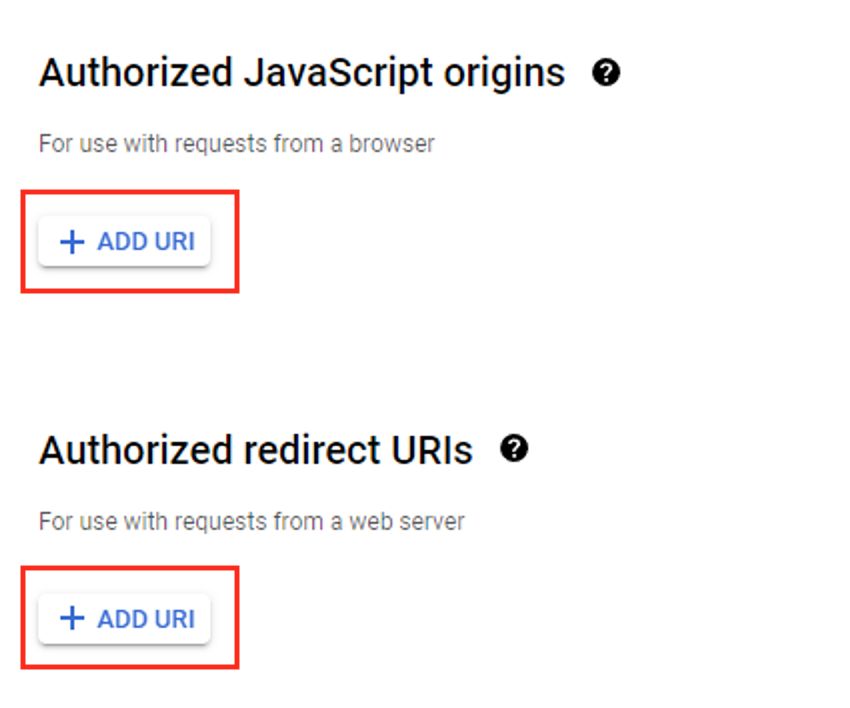
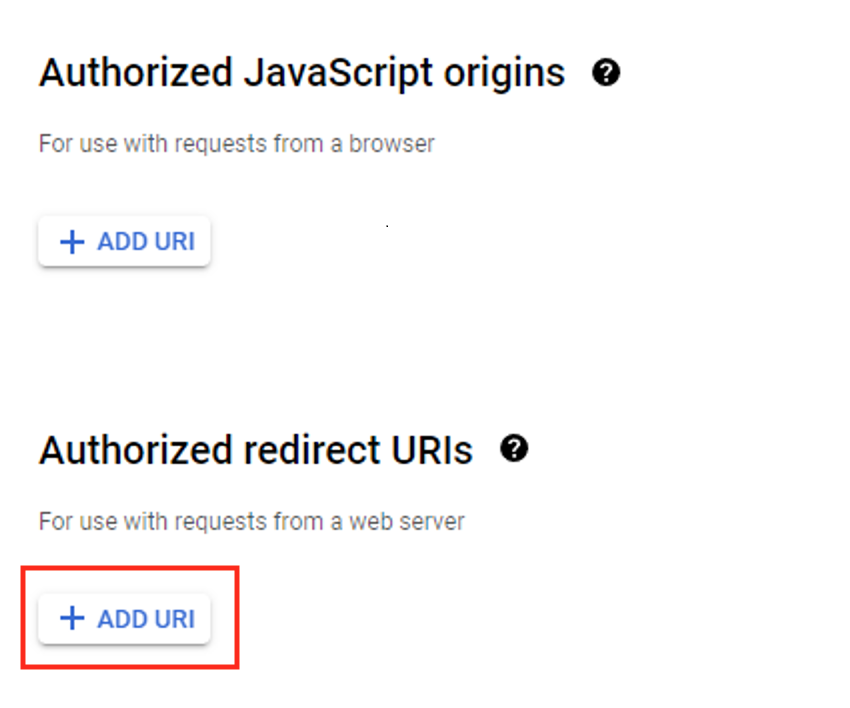
Improve documentation

diff --git a/docs/deploy-using-arm-template.md b/docs/deploy-using-arm-template.md
@@ -22,8 +22,8 @@ You must provide the following parameters when deploying the ARM Template.
 |---|---|---
 |**basename**|**A name that is used to name provisioned resources.** *Should be alphanumeric and less than 16 characters. Must be globally unique.*|true
 |**location**|**The location where the resources(s) are deployed.** *Choose the Azure region that's right for you and your customers. Not every resource is available in every region. The default value will be the location defined for the resource group.*|false
-|**google_client_id**|**The Google OAuth2 web application client id.**|true
-|**google_client_secret**|**The Google OAuth2 web application secret.**|true
+|**google_client_id**|**The Google OAuth2 web application client id.** *[Where to find your Google Client Id and Secret](./finding-google-client-id-and-secret.md)*|true
+|**google_client_secret**|**The Google OAuth2 web application secret.** [Where to find your Google Client Id and Secret](./finding-google-client-id-and-secret.md)*|true
 |**repository_url**|**The repository where the fit-on-fhir source code resides.** *The default value is 'https://github.com/Microsoft/fit-on-fhir'*|false
 |**repository_branch**|**The source code branch to be deployed.** *The default value is 'main'*|false
 |**google_dataset_request_limit**|**The maximum Google Fit data points returned per dataset request.** *The default value is 1000*|false
@@ -66,3 +66,6 @@ az deployment group create \
 ```
 
 NOTE: To deploy as an ARM template instead of a Bicep template, repeat the command above replacing the following argument `--template-file azuredeploy.json`.
+
+Once the deployment has completed, if the Authorized Redirect URI has not been set be sure to configure it. Instructions can be found [here](./setting-redirect-uris.md).
+

diff --git a/docs/google-setup.md b/docs/google-setup.md
@@ -67,13 +67,10 @@ next step below.
 
  While these are the only data required, it would be useful to also provide a list of test users that are allowed access to your app. You can also update the list of test users later in the **OAuth consent screen** in the left side pane.
 
-## Add javascript origin URLs
+## Add Authorized redirect URLs
 
-Lastly, you need configure the base URI and callback URI for your project.  Click the button labeled **Add URI** under *Authorized JavaScript origins*
-to add the base URI.
-
-Click the button labeled **Add URI** under *Authorized redirect URIs* to add the callback URI.
+Lastly, you need configure callback URI for your project.  Click the button labeled **Add URI** under *Authorized redirect URIs* to add the callback URI. The format of the URI will be **[https://authorize-{YOUR_BASE_NAME}.azurewebsites.net/api/googlefit/callback]()**.
 
 ![Add Authorized URIs](../media/authorized-uris.png)
 
-**Note -** You will not be able to add these values until after you have deployed the solution. The *Authorized JavaScript origins* and *Authorized redirect URIs* are based off of the Authorization Function app URL and won't be available until after it is deployed.
+**Note -** You may want to add this value after you have deployed the solution to Azure. *Authorized redirect URIs* are based off of the Authorization Function app URL and won't be available until after it is deployed.

diff --git a/docs/setting-redirect-uris.md b/docs/setting-redirect-uris.md
@@ -1,0 +1,19 @@
+# Setting Authorized JavaScript origins and Authorized redirect URIs
+
+In order for the **Authorization Function** to function properly, a callback URI must be configured in your Google OAuth Credential.
+
+Navigate to the [Google Cloud Platform console](https://console.cloud.google.com/), and open the Navigation Menu.
+
+![Navigation Menu](../media/navigation-menu.png)
+
+Navigate to *Credentials* from under the *APIs & Services* menu on the left side pane.
+
+![Credentials Menu](../media/credentials-menu.png)
+
+Find your credential in the list of OAuth 2.0 Client IDs and click the edit button.
+
+![OAuth Credential Edit](../media/oauth-edit.png)
+
+Click the button labeled **Add URI** under *Authorized redirect URIs* to add the callback URI. The format of the URI will be **[https://authorize-{YOUR_BASE_NAME}.azurewebsites.net/api/googlefit/callback]()**.
+
+![Add Authorized URIs](../media/authorized-uris.png)

diff --git a/docs/using-fit-on-fhir.md b/docs/using-fit-on-fhir.md
@@ -26,7 +26,7 @@ In the overview section of the Function copy the base URL. Append the base URL w
 ## Configuring Access to your Authorization Function
 
 Access to the Authorization function can be configured to either allow for anonymous login, or login with authentication.  This setting is configured by setting
-*AuthenticationConfiguration__IsAnonymousLoginEnabled* to true for anonymous logins, and false for login with authentication.  This can be found in can be found in the Settings for the Authorization fuction
+*AuthenticationConfiguration__IsAnonymousLoginEnabled* to true for anonymous logins, and false for login with authentication.  This can be found in can be found in the Settings for the Authorization function
 ![Anonymous Login Setting](../media/anonymous-login-setting.png)
 
 It can also be set here in the azuredeploy.parameters.json file, by changing the defaultValue between false and true

diff --git a/docs/finding-google-client-id-and-secret.md b/docs/finding-google-client-id-and-secret.md
@@ -1,0 +1,19 @@
+# Locating your Google Client Id and Secret
+
+After creating your project and OAuth credentials, you may need to find your Client Id and Secret to deploy the solution to Azure. These values are required so the Azure Functions can make authenticated requests to the Google APIs.
+
+Navigate to the [Google Cloud Platform console](https://console.cloud.google.com/), and open the Navigation Menu.
+
+![Navigation Menu](../media/navigation-menu.png)
+
+Navigate to *Credentials* from under the *APIs & Services* menu on the left side pane.
+
+![Credentials Menu](../media/credentials-menu.png)
+
+Find your credential in the list of OAuth 2.0 Client IDs and click the edit button.
+
+![OAuth Credential Edit](../media/oauth-edit.png)
+
+Your Client Id and secret will be listed on the right side of the screen.
+
+![Client Id and Secret](../media/client-id-and-secret.png)

diff --git a/deploy/README.md b/deploy/README.md
@@ -33,7 +33,7 @@ Note: More detail on the following functions can be found in the /src directory 
 * Storage Account: Contains the following sub-resources that enable data sync with FHIR
     * Blob Service: (TODO: What is this used for?)
     * Queue Service: Contains the Sync Event queue
-        * Queue: Receives messages from the Sync Event Generator function.  Each messsage contains a userId for data that needs to be retrieved from Google Fit and pushed to FHIR
+        * Queue: Receives messages from the Sync Event Generator function.  Each message contains a userId for data that needs to be retrieved from Google Fit and pushed to FHIR
     * Table Service: Contains the User Table
         * Table: Stores a list of user IDs for users that have authenticated to Google Fit and authorized their data to be synced to FHIR server
 
